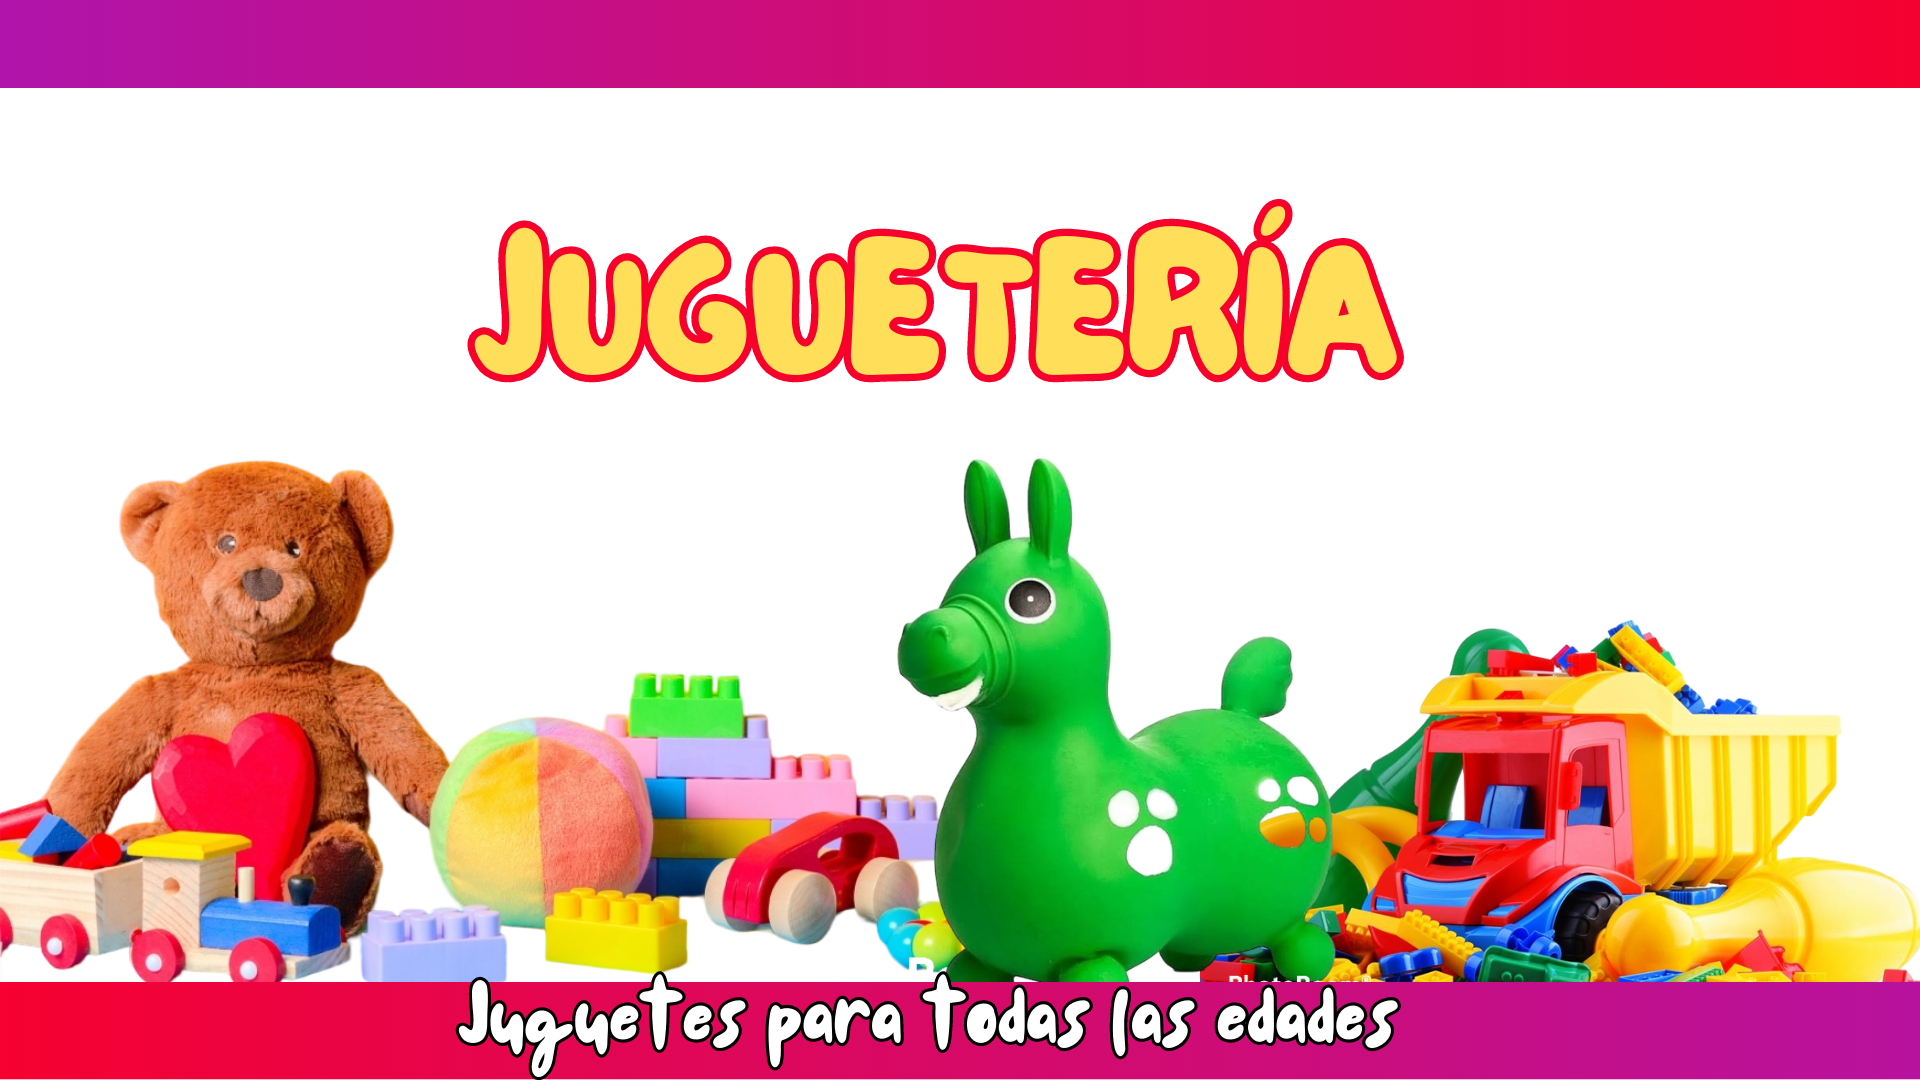
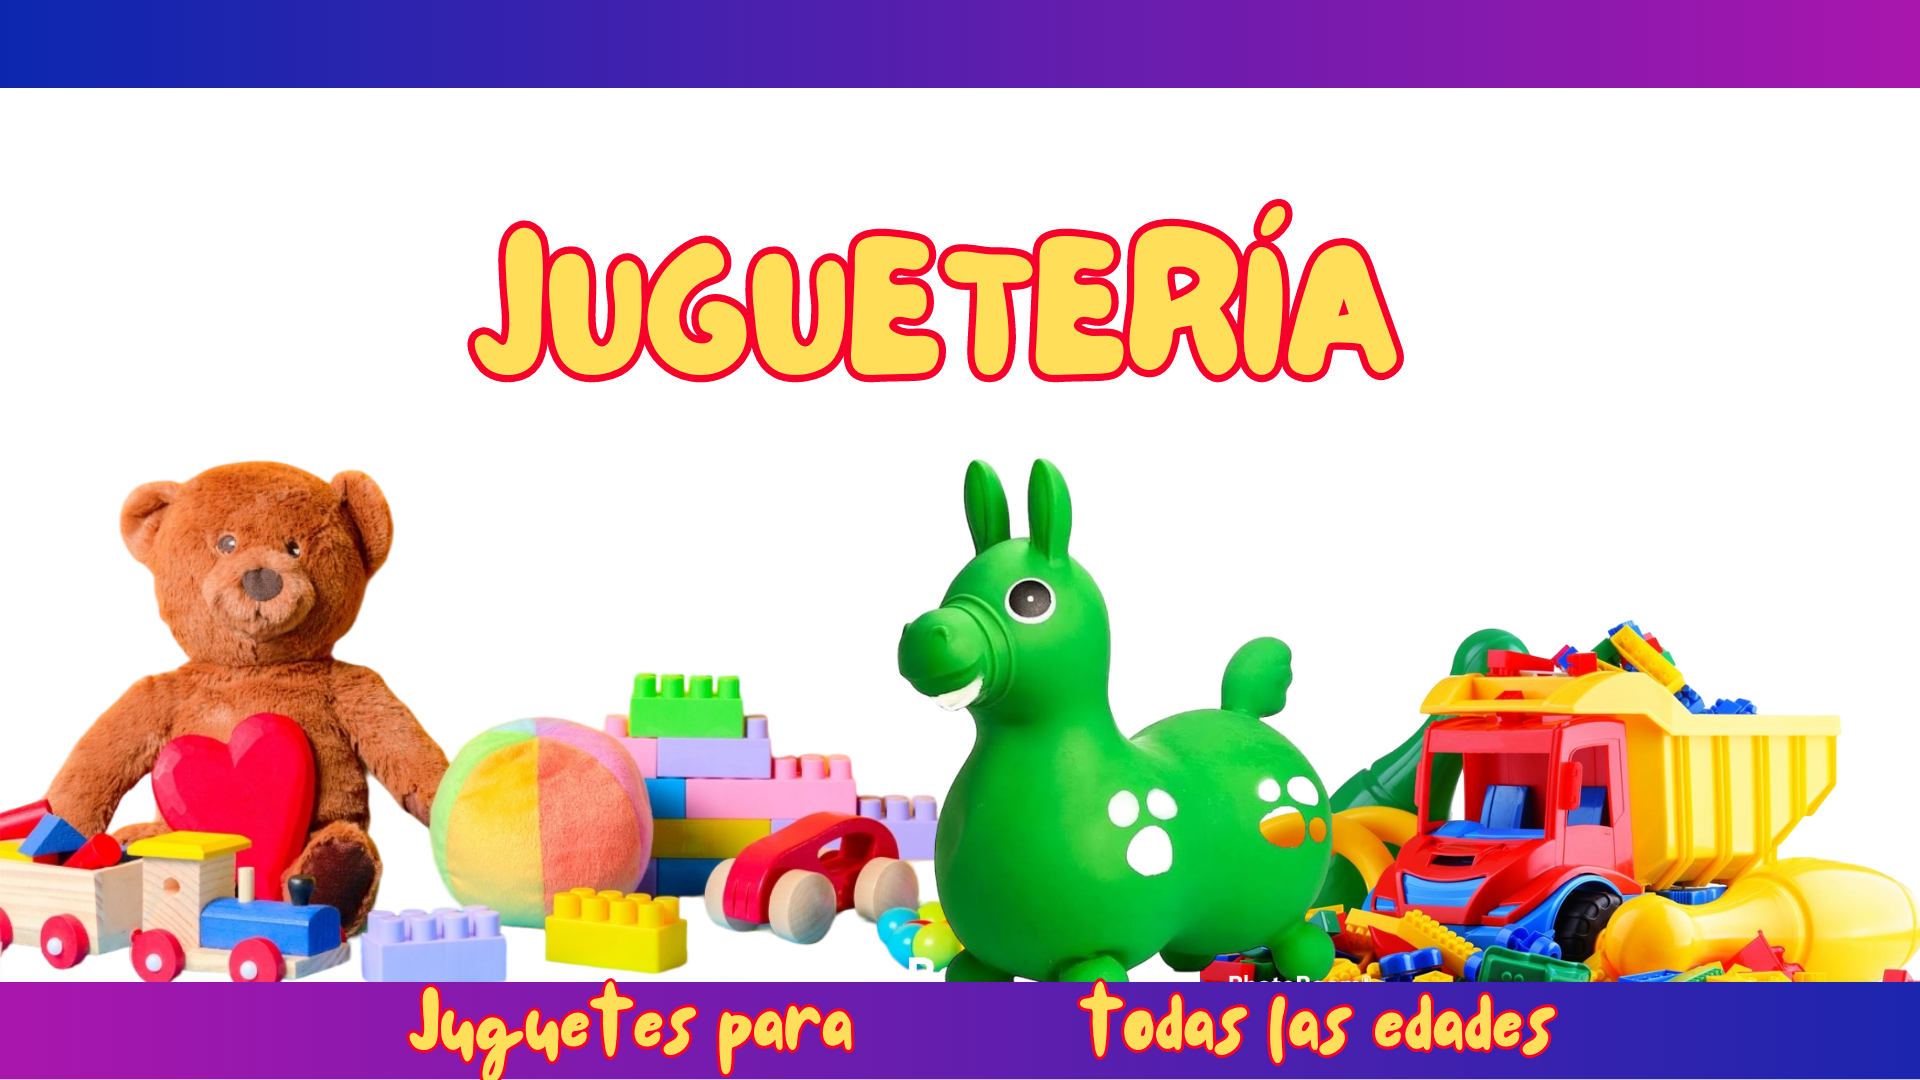
Retoques
Retoques al footer css y html
retoques al carousel

Changed region(s): [[0.0, 0.8861, 1.0, 1.0], [0.0, 0.0, 1.0, 0.0917]]

diff --git a/index.html b/index.html
@@ -18,6 +18,18 @@
     integrity="sha384-1BmE4kWBq78iYhFldvKuhfTAU6auU8tT94WrHftjDbrCEXSU1oBoqyl2QvZ6jIW3" crossorigin="anonymous">
 
 </head>
+<style>
+  .link0{
+    color:black
+  }
+  .link1{
+    color:black
+  }
+.link2{
+    color: black;
+}
+
+</style>
 
 <body>
 
@@ -105,42 +117,55 @@
         </section>
 
         <section class="footer__datos">
-          <h5>
-            Sáenz Peña 251, Centro. Deán Funes (Córdoba)
-            Teléfono: 3521 423641 
-            Mail: elfarojugueteria@outlook.com
-          </h5>
+
+          <h1 class="llamado">
+            Contactanos:
+          </h1>
+          <h2 class="informacion">
+            <ul>
+              <li>Local comercial: Sáenz Peña 251 - Deán Funes - (Córdoba)</li>
+              <li>Teléfono: 3521 423641</li>
+              <li>Horario de atención: 8 a 13.30hs y de 17 a 21.30hs</li>
+              <li>Mail: elfarojugueteria@outlook.com</li>
+            </ul>
+          </h2>
+          
         </section>
         <section class="footer__redes">
-          <h5>
-            <i class="fa-brands fa-whatsapp"> </i>
-            3521 539002
-          </h5>
-          <h6>
-            <i class="fa-brands fa-whatsapp">
-            </i>
-            Chat Online : 8:00 a 13:30 hs y 17:00 a 21:30 hs
-            Horario de atencion telefónica de 8 a 13.30hs y de 17 a 21.30hs
-          </h6>
-          <h5>
-            <i class="fa-brands fa-facebook fa-lg">
-              <a href="https://www.facebook.com/search/top?q=el%20faro%20libreria%20y%20jugueteria"
-                target="_blank">elfarolibreriayjugueteria</a></i>
-          </h5>
-          <h5>
-            <i class="fa-brands fa-instagram">
-              <a href="https://www.instagram.com/libreriaelfaro/" target="_blank">libreriaelfaro</a></i>
+          <h1 class="redes__sociales">
+            Redes Sociales 
+          </h1>
+
+          <h2 class="red__1" >
+            <i class="fa-brands fa-facebook fa-lg"></i>
+            
+              <a href="https://www.facebook.com/search/top?q=el%20faro%20libreria%20y%20jugueteria"class="link1"
+                target="_blank">ElFaroLibreriayJugueteria</a>
+          </h2>
+          <h3 class="red__2">
+            <i class="fa-brands fa-instagram"></i>
+              <a href="https://www.instagram.com/libreriaelfaro/" class="link2"target="_blank">LibreriaElfaro</a>
+          </h3>
+          <h4>
+            <i class="fa-brands fa-whatsapp"></i>
+            <a href="https://wa.me/message/WCVGVAANJR35E1"class="link0"target="_blank">ElFaroLibreria </a>
+        
+          </h4>
+          <h5 class="informacion">
+            
+            Chat Online : 8:00 a 13:30 hs y 17:00 a 21:30 hs                     
           </h5>
         </section>
       </div>
     </div>
+          
     <h6 class="footer__creditos">
       Comisión 11 - Argentina Programa 4.0 - UTN - 2023 <br>
-      <a href="https://github.com/cdbruno10" style="color:#FFFFFF" target="_blank">Claudio Bruno</a>
-      <a href="https://github.com/Ventarron62" style="color:#FFFFFF" target="_blank">Carlos Colli</a>
-      <a href="https://github.com/Marce66Mensato" style="color:#FFFFFF" target="_blank">Marcela Mensato</a>
-      <a href="https://github.com/Yanimorales" style="color:#FFFFFF" target="_blank">Yani Morales</a>
-      <a href="https://github.com/114607-TUNON" style="color:#FFFFFF" target="_blank">Sebastian Tuñón</a>
+      <a href="https://github.com/cdbruno10" style="color:rgb(209, 209, 209)" target="_blank">Claudio Bruno</a>
+      <a href="https://github.com/Ventarron62" style="color:rgb(209, 209, 209)" target="_blank">Carlos Colli</a>
+      <a href="https://github.com/Marce66Mensato" style="color:rgb(209, 209, 209)" target="_blank">Marcela Mensato</a>
+      <a href="https://github.com/Yanimorales" style= "color:rgb(209, 209, 209)" target="_blank">Yani Morales</a>
+      <a href="https://github.com/114607-TUNON" style="color:rgb(209, 209, 209)" target="_blank">Sebastian Tuñón</a>
   </footer>
 
   <script src="./js/index.js"></script>

diff --git a/css/index.css b/css/index.css
@@ -112,7 +112,7 @@ body {
   padding: 15px;
 }
 .main__link {
-  background-color: var(--color3);
+  background-color: var(--color1);
   color: white;
   font-size: 2rem;
   text-decoration: none;
@@ -220,22 +220,40 @@ div form {
   height: 160px;
   margin-left: -35px;
 }
+
 .footer__datos {
-  font-size: 28px;
+  font-size: 16px;
   line-height: 50px;
+}
+
+.llamado{
+  font-size: 20px;
+  color: black
+}
+
+.redes__sociales{
+  font-size: 20px;
+  margin-top: 20px;
+  color: black
+
+}
+
+.informacion {
+  font-size: 16px;
+  color: black
 }
 .footer__redes i,
 .footer__redes a {
-  font-size: 14px;
+  font-size: 16px;
   text-decoration: none;
-  margin-top: 20px;
+  margin-top: 0px;
 }
 
 .footer__creditos {
   margin-top: 20px;
-  color: white;
+  color: rgb(209, 209, 209);
   padding: 6px;
   text-align: center;
   font-size: 14px;
-  background-color: var(--color1);
+  background-color: rgb(7, 7, 124, 0.925);
 }
